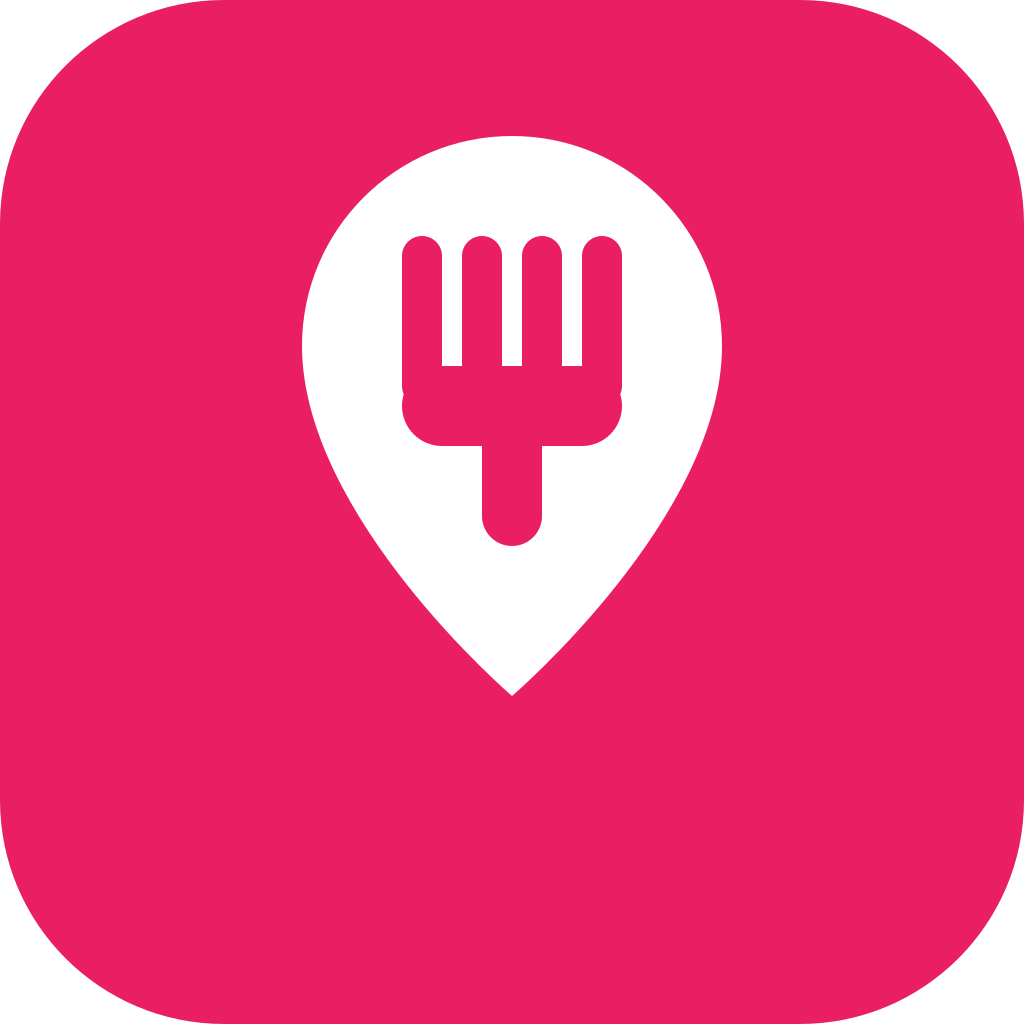
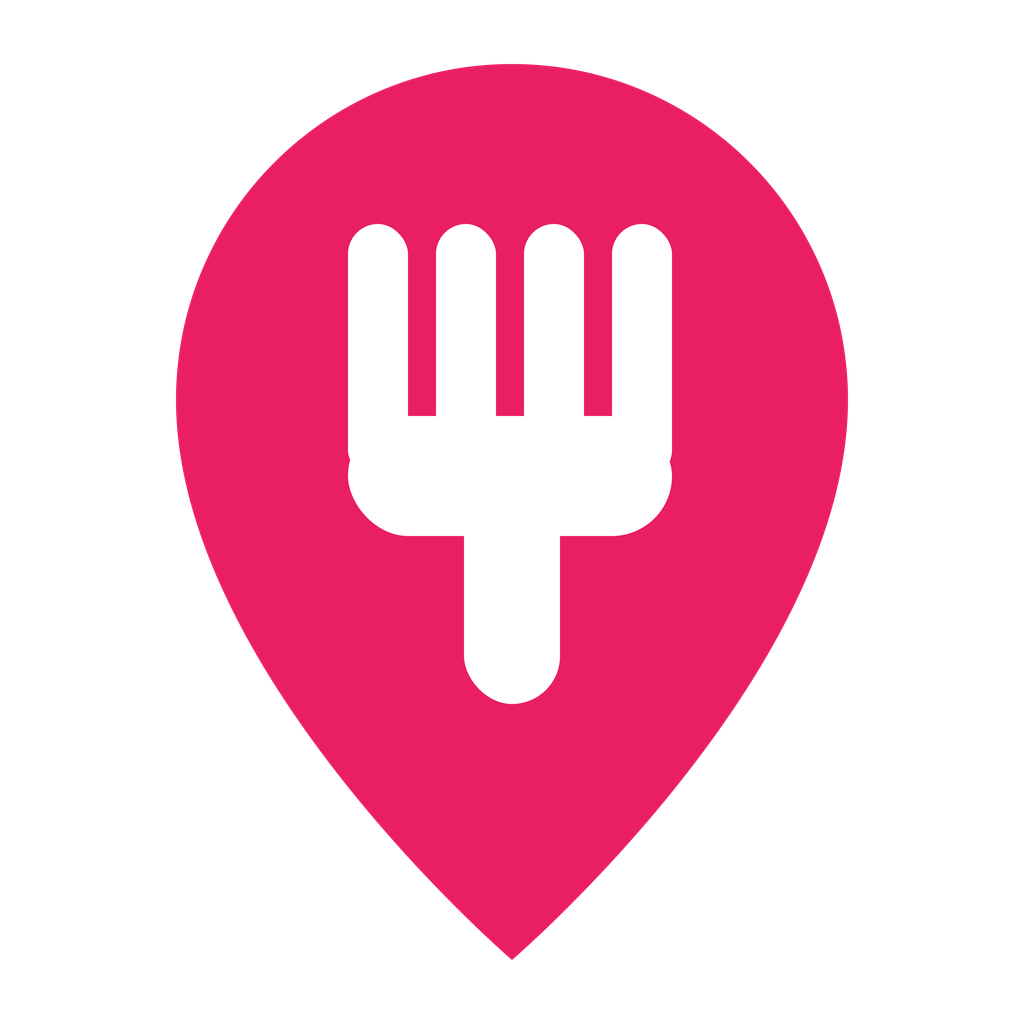
Ship official pin+fork lockup assets at cache v=12.
Header uses Lieferway-header-h64/96/128, splash uses the slogan lockup, favicon is icon-pin-fork. Scooter files are removed from public.

diff --git a/src/components/logo.tsx b/src/components/logo.tsx
@@ -1,7 +1,7 @@
 import Link from "next/link";
 import { cn } from "@/lib/utils";
 
-const ASSET = "v=13";
+const ASSET = "v=12";
 
 /** Single-piece lockup (icon + wordmark). Never add a second “Lieferway” label beside it. */
 export function Logo({
@@ -17,11 +17,11 @@ export function Logo({
 }) {
   const img = (
     <img
-      src={onDark ? `/logo-header-white.png?${ASSET}` : `/logo-header.png?${ASSET}`}
+      src={onDark ? `/Lieferway-header-white.png?${ASSET}` : `/Lieferway-header-h128.png?${ASSET}`}
       srcSet={
         onDark
           ? undefined
-          : `/logo-header-h64.png?${ASSET} 316w, /logo-header-h96.png?${ASSET} 474w, /logo-header-h128.png?${ASSET} 631w`
+          : `/Lieferway-header-h64.png?${ASSET} 316w, /Lieferway-header-h96.png?${ASSET} 474w, /Lieferway-header-h128.png?${ASSET} 631w`
       }
       sizes="(max-width: 640px) 148px, 176px"
       alt="Lieferway"

diff --git a/src/app/layout.tsx b/src/app/layout.tsx
@@ -36,11 +36,12 @@ export const metadata: Metadata = {
     "Lieferway liefert Speisen in Frankfurt am Main. Fair 5 % Restaurant-Provision. Türkisch, hessisch, Pizza, Sushi.",
   icons: {
     icon: [
-      { url: "/favicon.svg?v=13", type: "image/svg+xml" },
-      { url: "/favicon-32.png?v=13", sizes: "32x32", type: "image/png" },
-      { url: "/favicon-64.png?v=13", sizes: "64x64", type: "image/png" },
+      { url: "/icon-pin-fork.svg?v=12", type: "image/svg+xml" },
+      { url: "/favicon.svg?v=12", type: "image/svg+xml" },
+      { url: "/favicon-32.png?v=12", sizes: "32x32", type: "image/png" },
+      { url: "/favicon-64.png?v=12", sizes: "64x64", type: "image/png" },
     ],
-    apple: "/apple-touch-icon.png?v=13",
+    apple: "/apple-touch-icon.png?v=12",
   },
 };
 

diff --git a/src/components/splash-intro.tsx b/src/components/splash-intro.tsx
@@ -57,10 +57,10 @@ export function SplashIntro() {
     >
       <span className="lw-splash-mark">
         <img
-          src="/logo-master-a.png?v=13"
+          src="/Lieferway-lockup.png?v=12"
           alt="Lieferway"
-          width={420}
-          height={100}
+          width={835}
+          height={200}
           draggable={false}
           className="mx-auto h-auto w-[min(88vw,420px)]"
         />

diff --git a/DESIGN.md b/DESIGN.md
@@ -8,9 +8,10 @@ Tokens live in `src/app/globals.css` as CSS variables. Customer UI is a premium 
 
 **Locked by owner/designer.** Magenta map-pin with a white fork (`#E91E63`). Wordmark: **Liefer** navy + **way** pink. No scooter, no cloche.
 
-- Header / login / footer: `public/logo-header.png` (`logo-header-h64/96/128.png`, `Lieferway-header.svg`) — pin + wordmark, **no slogan**. Cache-bust `?v=13`.
-- Splash / marketing: `public/logo-master-a.png` / `Lieferway-lockup.svg` — pin + wordmark + slogan **DEIN ESSEN. DEIN VIERTEL. DEIN WEG.**
-- App icon / favicon: `public/icon-pin-fork.svg`, `favicon-32.png`, `favicon-64.png`, `app-icon-1024.png`.
+- Header / login / footer: `public/Lieferway-header-h64.png`, `Lieferway-header-h96.png`, `Lieferway-header-h128.png` (`Lieferway-header.svg`) — pin + wordmark, **no slogan**. Cache-bust `?v=12`.
+- Splash / marketing: `public/Lieferway-lockup.png` / `Lieferway-lockup.svg` — pin + wordmark + slogan **DEIN ESSEN. DEIN VIERTEL. DEIN WEG.**
+- App icon / favicon: `public/icon-pin-fork.svg` (also `favicon.svg`), `favicon-32.png`, `favicon-64.png`, `app-icon-1024.png`.
+- Scooter lockup is retired. Do not serve or restore scooter assets.
 
 ## Color tokens
 
